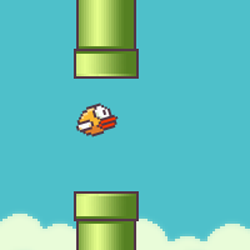
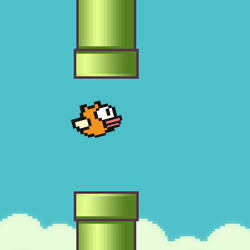
Replace spirit

Changed region(s): [[0.28, 0.392, 0.504, 0.56]]

diff --git a/css/main.css b/css/main.css
@@ -296,7 +296,7 @@ Screen - Game
    position: absolute;
    width: 34px;
    height: 24px;
-   background-image: url('../assets/bird.png');
+   background-image: url('../assets/cat.png');
 
    -webkit-animation: animBird 300ms steps(4) infinite;
    animation: animBird 300ms steps(4) infinite;
